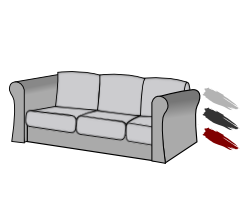
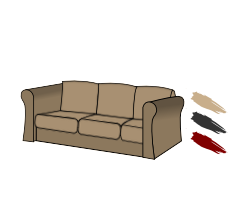
changed background color for all apps

diff --git a/src/apps/ColorPickerApp.cpp b/src/apps/ColorPickerApp.cpp
@@ -13,7 +13,7 @@ namespace ipn
 
         m_graphicsView = new QGraphicsView(this);
         m_graphicsView->setSceneRect(0, 0, 240, 240);
-        m_graphicsView->setBackgroundBrush(QBrush(QColor(59, 59, 59)));
+        m_graphicsView->setBackgroundBrush(QBrush(QColor(160, 160, 160)));
         m_scene = new QGraphicsScene(m_graphicsView);
 
         m_graphicsView->setScene(m_scene);
@@ -49,7 +49,7 @@ namespace ipn
                 }
             default:
                 switch(colorIndex) {
-                    case 0: return QColor(179, 179, 179);
+                    case 0: return QColor(200, 174, 139);
                     case 1: return QColor(51, 51, 51);
                     default : return QColor(128, 0, 0);
                 }

diff --git a/src/widgets/PickerWidget.cc b/src/widgets/PickerWidget.cc
@@ -32,7 +32,7 @@ namespace ipn
 		int numberOfEntries = m_entries.size();
 
 		TextWidget *newEntry = new TextWidget(this);
-		newEntry->setColor(Qt::white);
+        newEntry->setColor(Qt::white);
 		newEntry->setText(text);
 		newEntry->setAlignment(Qt::AlignLeft);
         newEntry->resize(184, newEntry->textHeight());
@@ -108,7 +108,7 @@ namespace ipn
 		QPainter painter(this);
 		painter.setRenderHint(QPainter::Antialiasing, true);
 
-		QPen pen(QColor(179, 179, 179));
+        QPen pen(QColor(60, 60, 60));
 		pen.setWidth(2);
 		painter.setPen(pen);
 

diff --git a/src/apps/FurniturePickerApp.cpp b/src/apps/FurniturePickerApp.cpp
@@ -12,7 +12,7 @@ namespace ipn
     FurniturePickerApp::FurniturePickerApp(IPodFrameWidget* frameWidget, QWidget *parent) : App(parent)
     {
         m_back = new BackgroundWidget(this);
-        m_back->setColor(BackgroundWidget::BG_TRANSPARENT);
+        m_back->setColor(BackgroundWidget::BG_GRAY);
         m_back->move(0, 0);
 
         m_frameWidget = frameWidget;

diff --git a/src/apps/ListMenuApp.cc b/src/apps/ListMenuApp.cc
@@ -17,7 +17,7 @@ namespace ipn
     ListMenuApp::ListMenuApp(IPodFrameWidget* frameWidget, QWidget *parent) : App(parent)
     {
         m_back = new BackgroundWidget(this);
-        m_back->setColor(BackgroundWidget::BG_TRANSPARENT);
+        m_back->setColor(BackgroundWidget::BG_GRAY);
         m_back->move(0, 0);
 
         m_frameWidget = frameWidget;

diff --git a/src/apps/SettingsApp.cc b/src/apps/SettingsApp.cc
@@ -22,7 +22,7 @@ namespace ipn
     SettingsApp::SettingsApp(IPodFrameWidget* frameWidget, QWidget *parent) : App(parent)
     {
         m_back = new BackgroundWidget(this);
-        m_back->setColor(BackgroundWidget::BG_TRANSPARENT);
+        m_back->setColor(BackgroundWidget::BG_GRAY);
         m_back->move(0, 0);
 
         m_frameWidget = frameWidget;

diff --git a/src/widgets/BackgroundWidget.cc b/src/widgets/BackgroundWidget.cc
@@ -32,7 +32,7 @@ namespace ipn
 		if (m_color == BG_TRANSPARENT)
 			backgroundColor = QColor(0, 0, 0, 192);
 		else if (m_color == BG_GRAY)
-			backgroundColor = QColor(64, 64, 64, 255);
+            backgroundColor = QColor(160, 160, 160, 255);
 		else if (m_color == BG_WHITE)
 			backgroundColor = QColor(255, 255, 255, 255);
 
